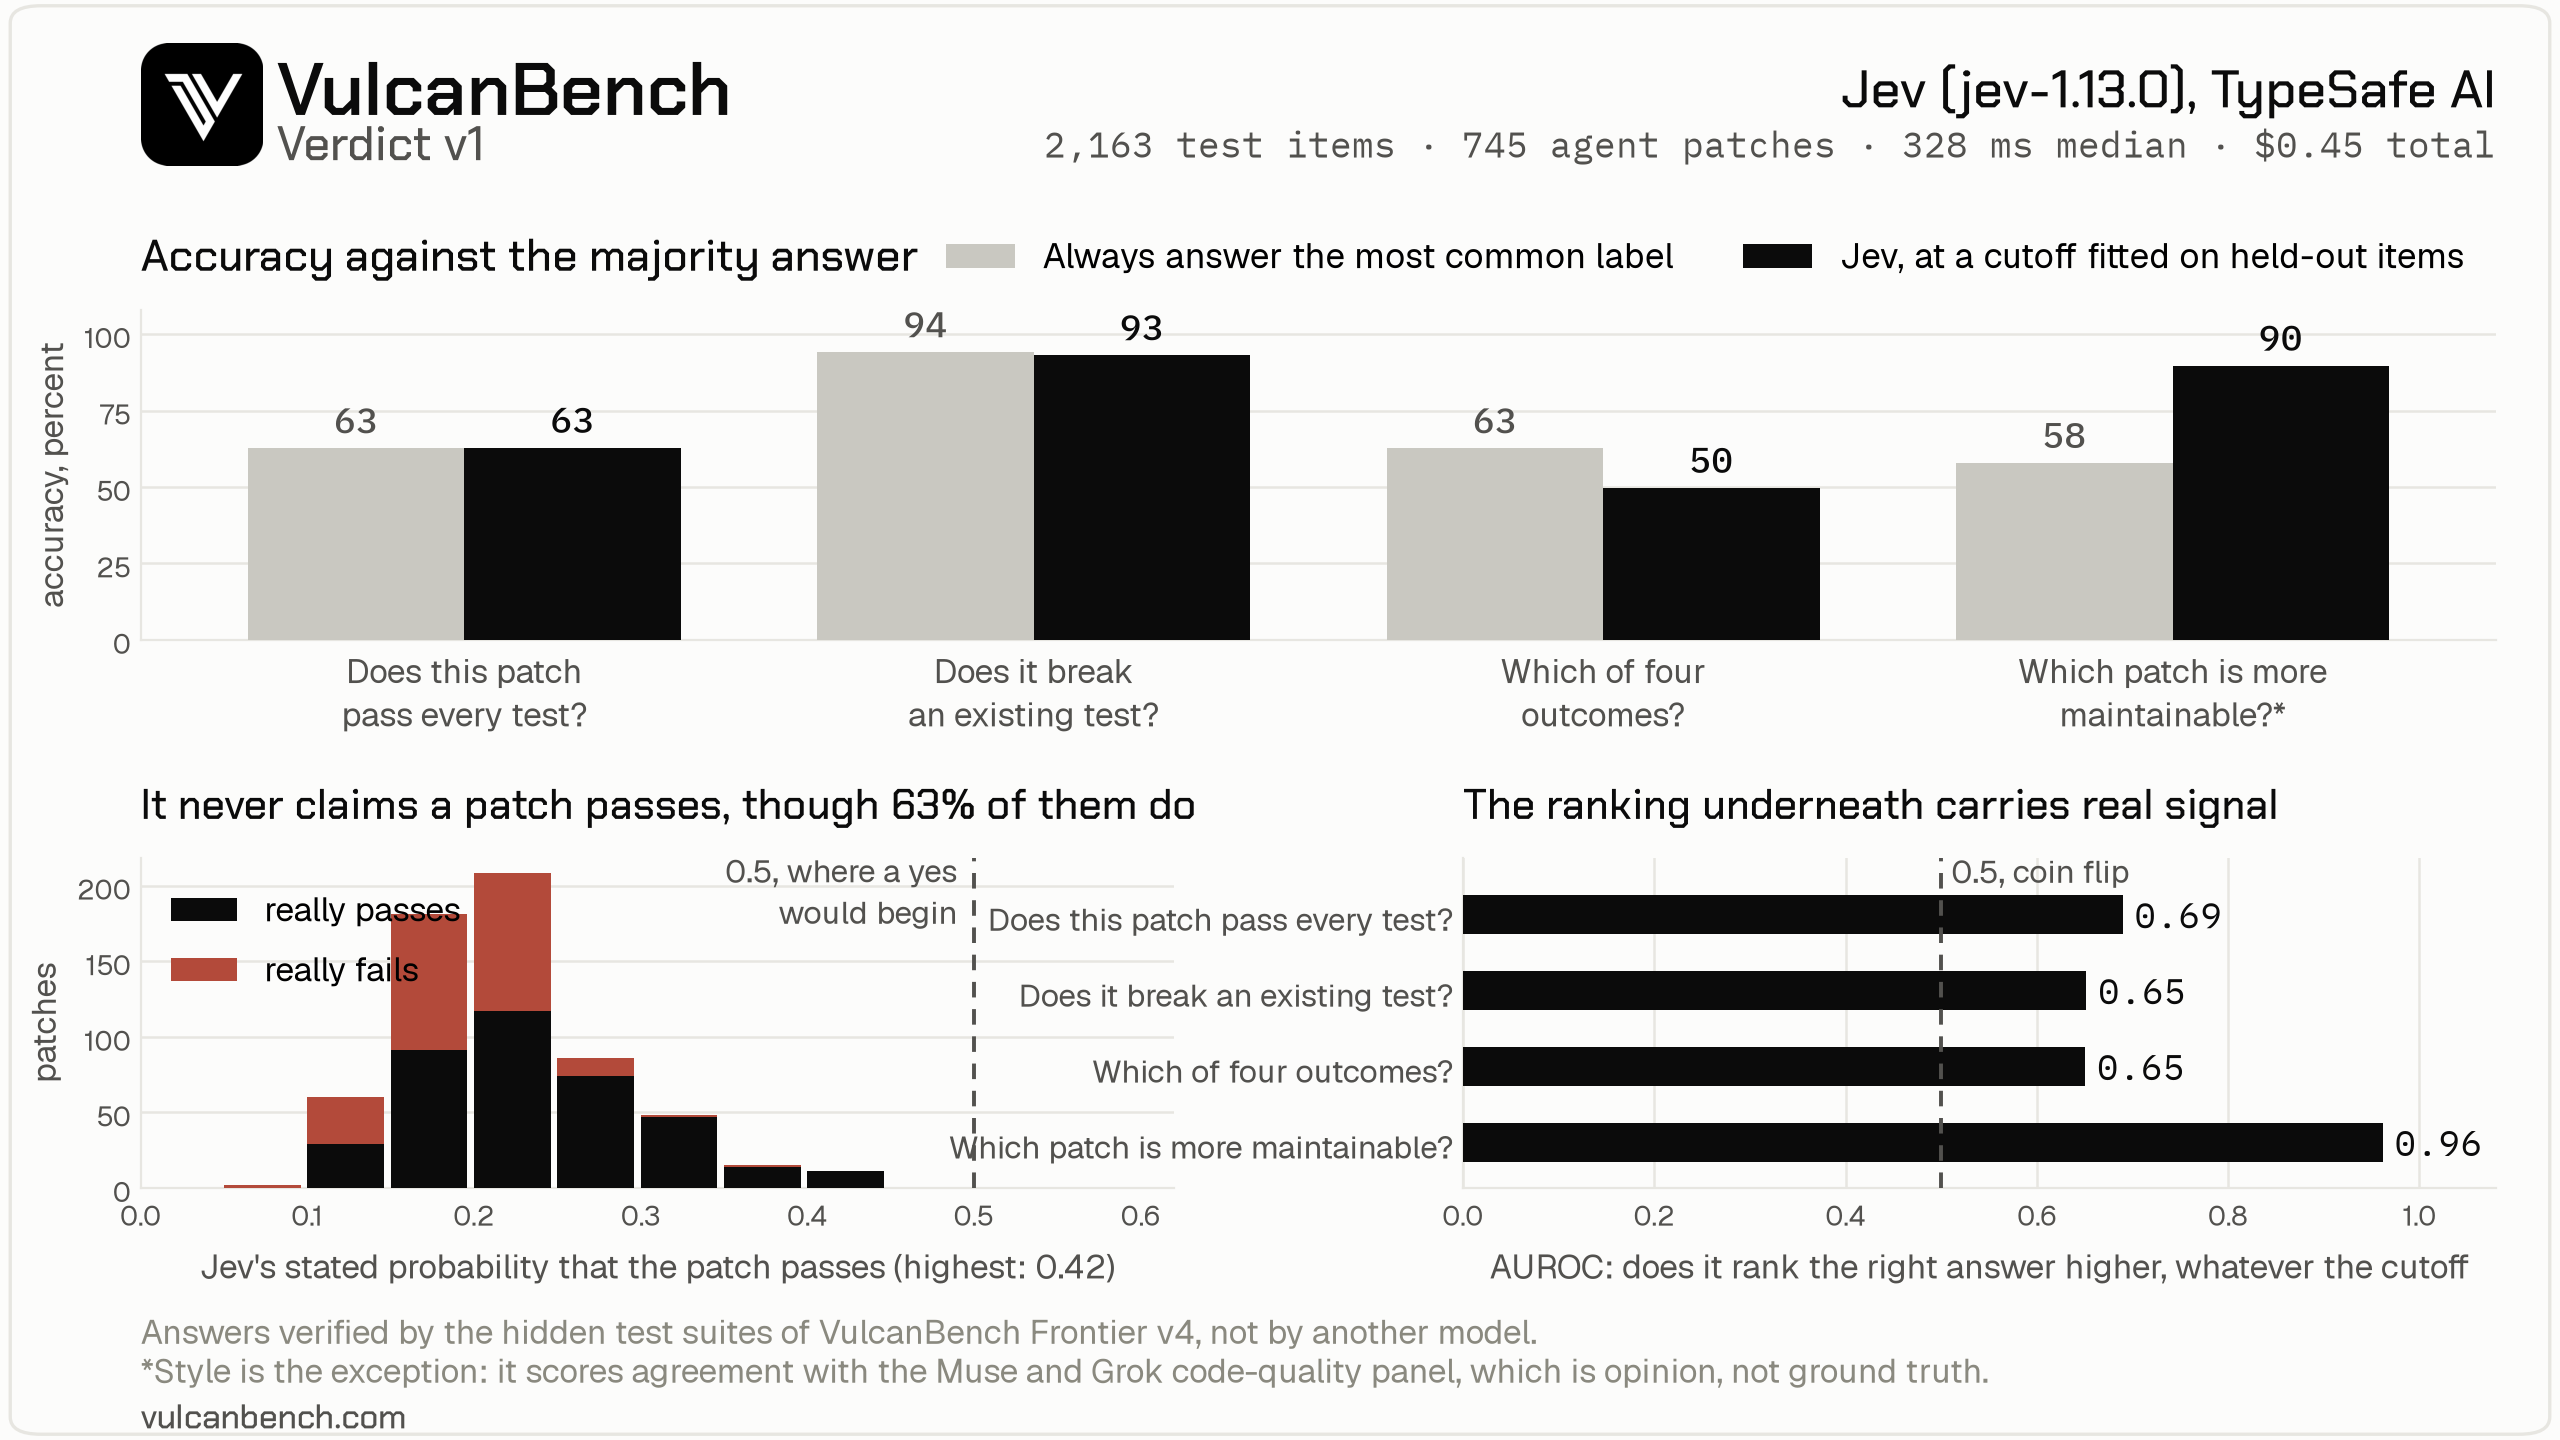
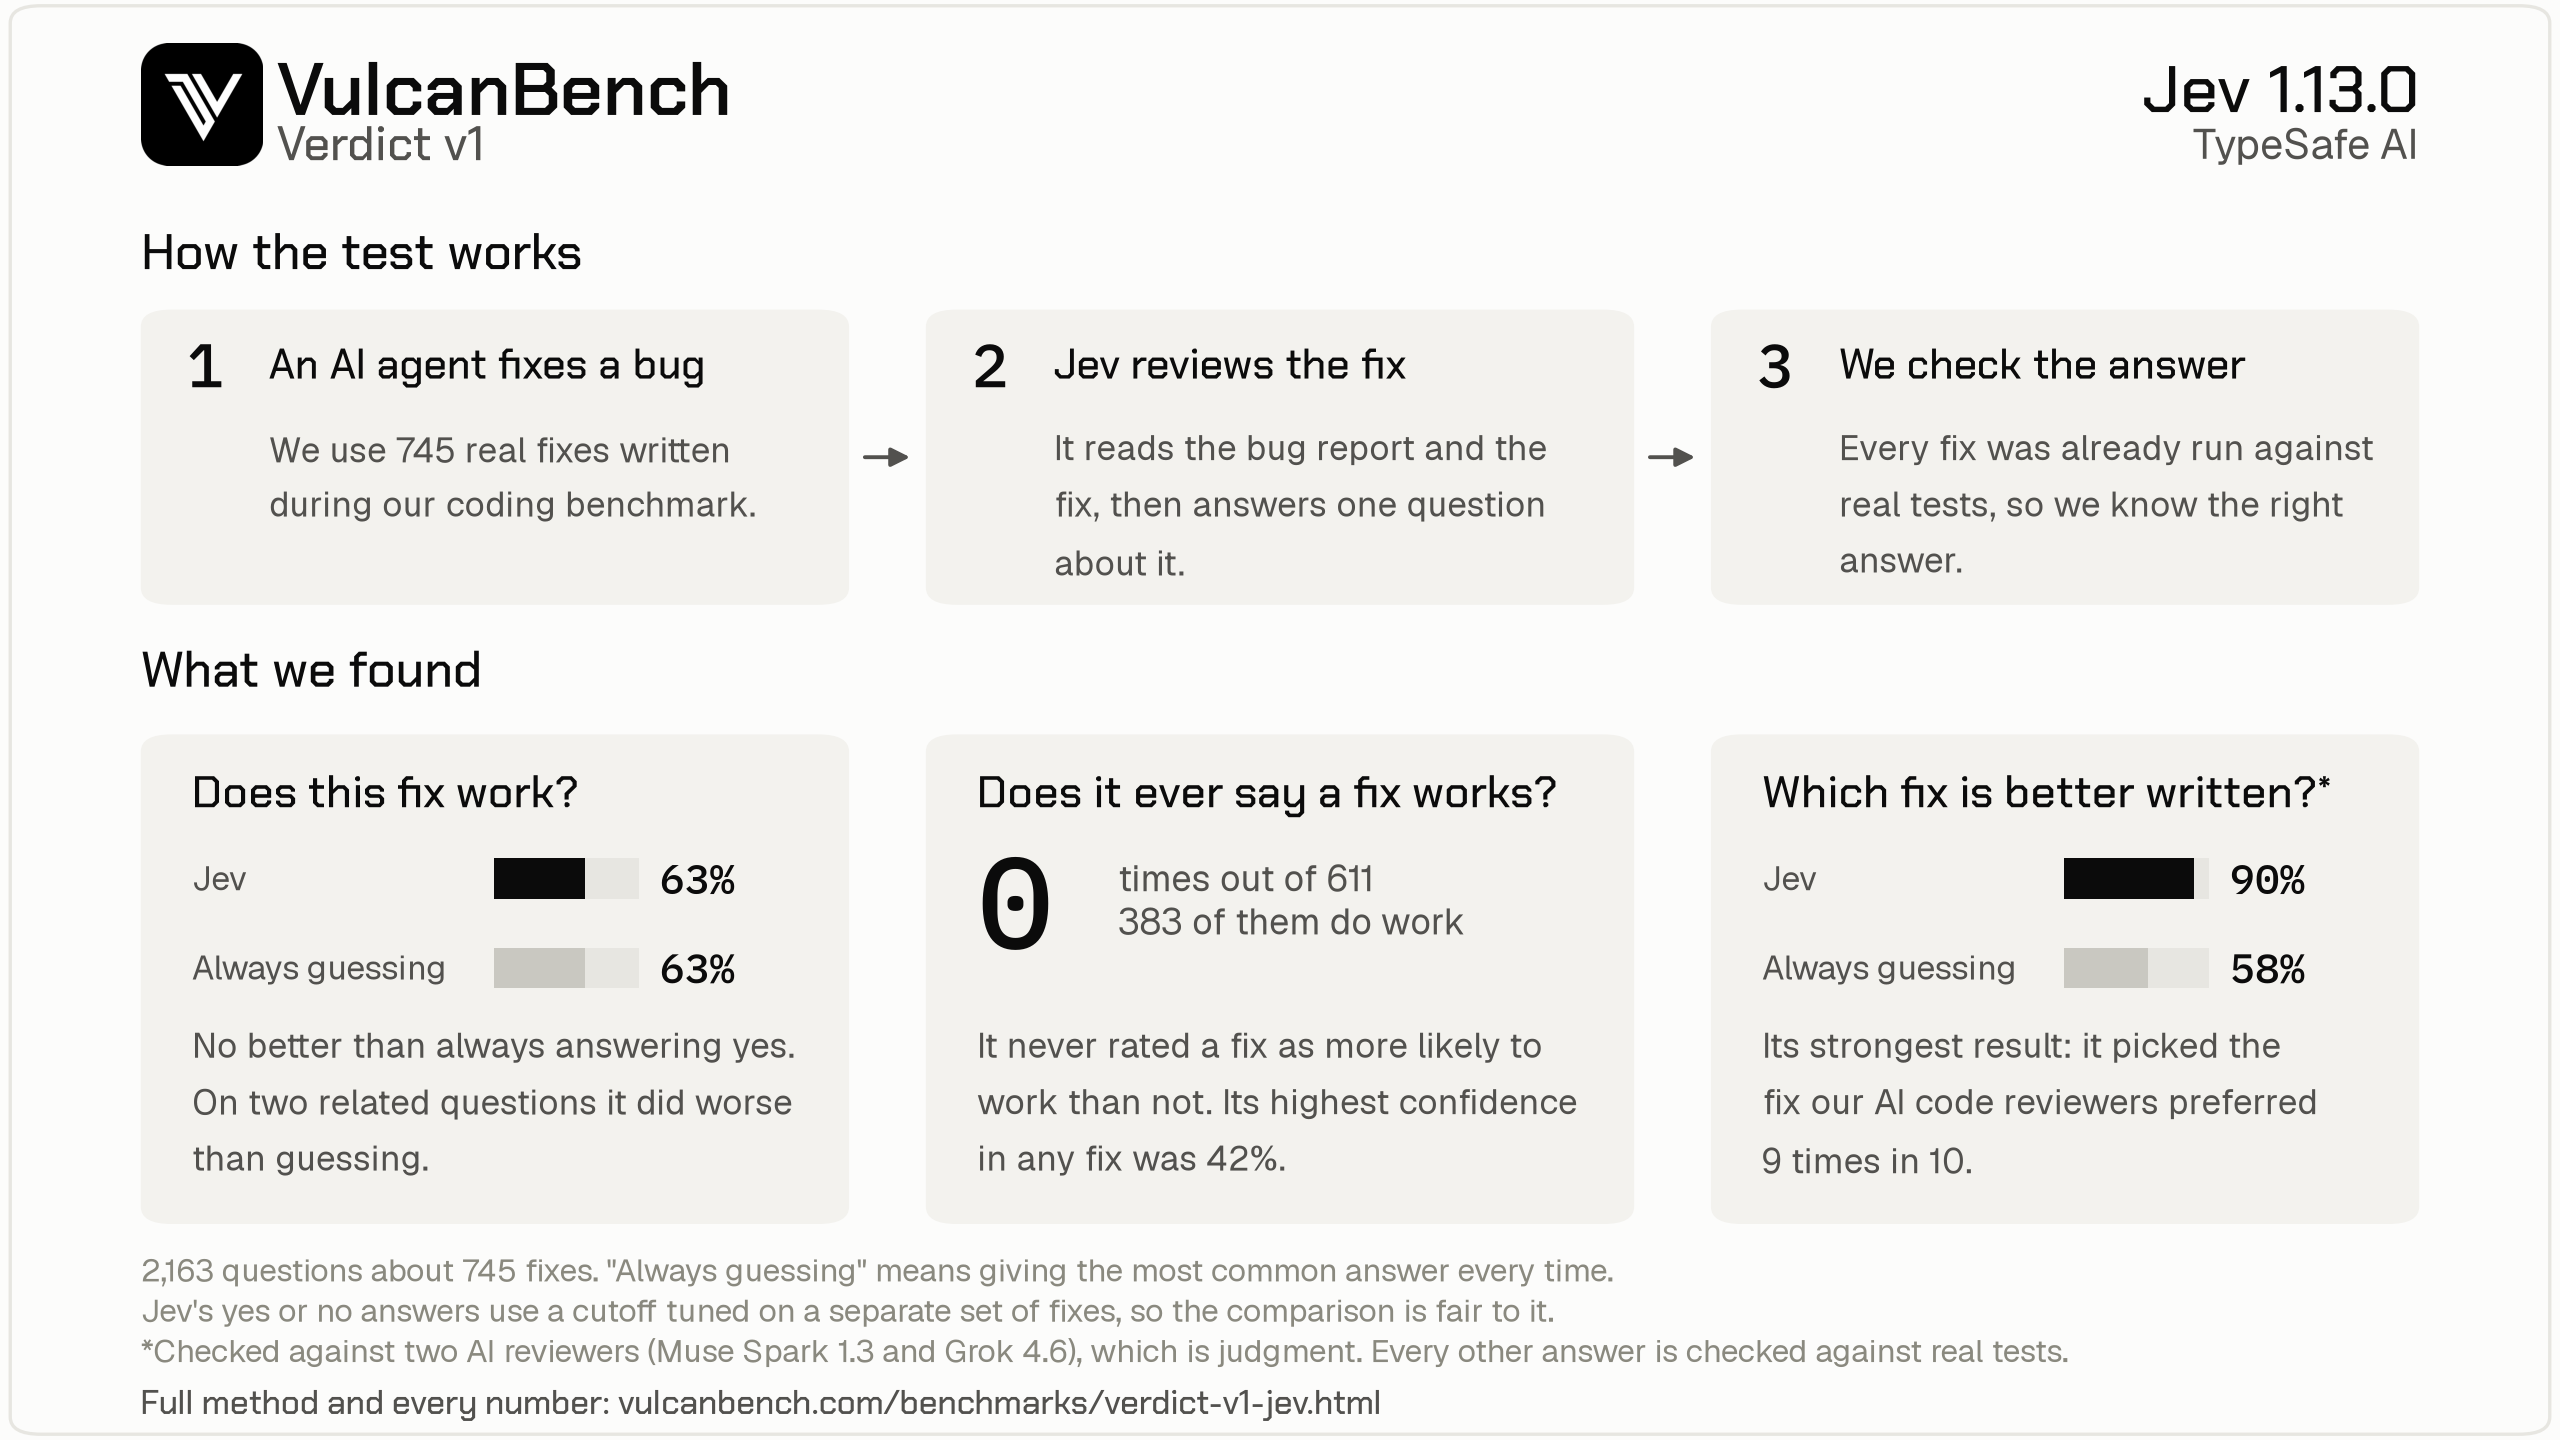
Publish the redesigned Verdict v1 Jev card
The card now explains how the test works in three steps and gives three
plain-language results against always guessing. Bumped to ?v=3 so no
cached copy of the old card is served, and rewrote the alt text and
caption to match.

diff --git a/benchmarks/verdict-v1-jev.html b/benchmarks/verdict-v1-jev.html
@@ -21,15 +21,15 @@
 <meta property="og:title" content="Jev 1.13.0 on VulcanBench Verdict v1 | VulcanBench">
 <meta property="og:description" content="Verdict v1: TypeSafe AI's Jev judged 745 real agent patches with answers verified by hidden tests. Its probabilities never cross 0.5, but the ranking underneath scores 0.69 AUROC, and it agrees with a code-quality panel on 89.7% of style pairs.">
 <meta property="og:url" content="https://vulcanbench.com/benchmarks/verdict-v1-jev.html">
-<meta property="og:image" content="https://vulcanbench.com/assets/cards/verdict-v1-jev.png?v=2">
+<meta property="og:image" content="https://vulcanbench.com/assets/cards/verdict-v1-jev.png?v=3">
 <meta property="og:image:width" content="2560">
 <meta property="og:image:height" content="1440">
-<meta property="og:image:alt" content="VulcanBench Verdict v1: Jev accuracy against the majority-answer floor on four question families, the distribution of the probabilities it produced, and its AUROC per family">
+<meta property="og:image:alt" content="VulcanBench Verdict v1: how the test works in three steps, and three results for Jev against always guessing">
 <meta name="twitter:card" content="summary_large_image">
 <meta name="twitter:title" content="Jev 1.13.0 on VulcanBench Verdict v1 | VulcanBench">
 <meta name="twitter:description" content="Verdict v1: TypeSafe AI's Jev judged 745 real agent patches with answers verified by hidden tests. Its probabilities never cross 0.5, but the ranking underneath scores 0.69 AUROC, and it agrees with a code-quality panel on 89.7% of style pairs.">
-<meta name="twitter:image" content="https://vulcanbench.com/assets/cards/verdict-v1-jev.png?v=2">
-<meta name="twitter:image:alt" content="VulcanBench Verdict v1: Jev accuracy against the majority-answer floor on four question families, the distribution of the probabilities it produced, and its AUROC per family">
+<meta name="twitter:image" content="https://vulcanbench.com/assets/cards/verdict-v1-jev.png?v=3">
+<meta name="twitter:image:alt" content="VulcanBench Verdict v1: how the test works in three steps, and three results for Jev against always guessing">
 <link rel="preconnect" href="https://fonts.googleapis.com">
 <link rel="preconnect" href="https://fonts.gstatic.com" crossorigin>
 <link href="https://fonts.googleapis.com/css2?family=Chakra+Petch:wght@400;500;600&family=IBM+Plex+Mono:ital,wght@0,400;0,500;1,400&display=swap" rel="stylesheet">
@@ -69,7 +69,7 @@
         <p><strong>Correction, September 23, 2026.</strong> The first version of this report scored yes or no questions at a 0.5 cutoff. Jev's probability that a patch passes never exceeds 0.42, so that cutoff sat outside its output range and no item could be answered "passes". Those figures were an artifact of the decision rule, not of the model. This version reports the ranking, which needs no cutoff, alongside accuracy at a cutoff fitted on the development split. Two claims did not survive and are withdrawn; see <a href="#correction">what changed</a>.</p>
       </header>
       <div class="report-resources" aria-label="Report and evidence downloads">
-        <a class="resource" href="/assets/cards/verdict-v1-jev.png?v=2" download><span class="resource-kind">Card</span><span class="resource-title">Results card</span><span class="resource-meta">PNG, accuracy, probabilities and ranking</span></a>
+        <a class="resource" href="/assets/cards/verdict-v1-jev.png?v=3" download><span class="resource-kind">Card</span><span class="resource-title">Results card</span><span class="resource-meta">PNG, how the test works and three results</span></a>
         <a class="resource" href="/assets/data/verdict-v1-jev/scores.csv" download><span class="resource-kind">Data</span><span class="resource-title">Scores by family</span><span class="resource-meta">CSV, Jev and the majority floor</span></a>
         <a class="resource" href="/assets/data/verdict-v1-jev/results.json"><span class="resource-kind">Data</span><span class="resource-title">Every published number</span><span class="resource-meta">JSON, metrics, confusion counts and the probe</span></a>
         <a class="resource" href="/assets/data/verdict-v1-jev/report.md"><span class="resource-kind">Report</span><span class="resource-title">Full technical report</span><span class="resource-meta">Markdown, findings, method and limits</span></a>
@@ -99,10 +99,10 @@
         <p>A fifth family, picking which file the fix belongs in, is kept only as a wiring probe. Jev answered 19 of 19 correctly, and then we checked the items: every issue names the answer file's stem in its own text, so the question is string matching. It supports no claim about ability. Items are split by task, so no task appears in both the development and test splits, and the test split is what is published here.</p>
       </section>
       <figure class="suite-card">
-        <a href="/assets/cards/verdict-v1-jev.png?v=2" aria-label="Open the Jev results card at full resolution">
-          <img src="/assets/cards/verdict-v1-jev.png?v=2" width="2560" height="1440" fetchpriority="high" alt="VulcanBench Verdict v1 results for Jev. At a cutoff fitted on held-out items, Jev matches the majority-answer floor on whether a patch passes, 63 against 63, and on whether it breaks a test, 93 against 94; it scores 50 against 63 on the four-way outcome and 90 against 58 on which patch is more maintainable. A second panel shows every stated probability falling between 0.09 and 0.42, well short of the 0.5 mark where a yes would begin. A third panel shows AUROC of 0.69, 0.65, 0.65 and 0.96 across the four questions, all above the 0.5 coin-flip line. Exact values are in the tables on this page.">
+        <a href="/assets/cards/verdict-v1-jev.png?v=3" aria-label="Open the Jev results card at full resolution">
+          <img src="/assets/cards/verdict-v1-jev.png?v=3" width="2560" height="1440" fetchpriority="high" alt="VulcanBench Verdict v1 card for Jev. How the test works: an AI agent fixes a bug, Jev reads the bug report and the fix and answers one question about it, and the answer is checked against the fix's real test results. What we found: on whether a fix works, Jev scores 63 percent, the same as always guessing yes; it never once rated a fix as more likely to work than not, though 383 of 611 do work, and its highest confidence was 42 percent; on which of two fixes is better written, it agrees with the AI code reviewers 90 percent of the time against 58 percent for guessing. Exact values are in the tables on this page.">
         </a>
-        <figcaption>Accuracy bars use a cutoff fitted on the development split, because Jev's own probabilities never cross 0.5. The style family, marked with an asterisk, scores agreement with a code-quality judge panel, not ground truth. <a href="/assets/cards/verdict-v1-jev.png?v=2">Open full-size card</a>.</figcaption>
+        <figcaption>The yes or no results use a cutoff tuned on a separate set of fixes, so the comparison with guessing is fair to Jev. The style result, marked with an asterisk, is checked against AI reviewers rather than tests. <a href="/assets/cards/verdict-v1-jev.png?v=3">Open full-size card</a>.</figcaption>
       </figure>
 
       <section class="report-section" id="results" aria-labelledby="results-heading">

diff --git a/benchmarks.html b/benchmarks.html
@@ -159,7 +159,7 @@
         <p>Its stated probability that a patch passes never rises above 0.42, on a population where 63% of them pass, which is a large calibration failure. The ranking underneath is sounder: AUROC 0.69 on that question, and at a cutoff fitted on held-out items its accuracy draws level with the majority answer rather than beating it. On which of two patches a code-quality panel preferred, it agrees 89.7% of the time at AUROC 0.962, for 328 ms and $0.15 per 1,000 decisions. Corrected on September 23 after the first version scored these questions at a cutoff the model never crosses.</p>
         <div class="suite-downloads"><a href="benchmarks/verdict-v1-jev.html">Read the study</a><a href="assets/data/verdict-v1-jev/report.md">Full report</a><a href="assets/data/verdict-v1-jev/scores.csv">Scores CSV</a><a href="https://github.com/morganlinton/VulcanBench/tree/main/harness/verdict">Suite code</a></div>
       </div>
-      <a href="benchmarks/verdict-v1-jev.html" aria-label="Read the Jev report on Verdict v1"><img src="assets/cards/verdict-v1-jev.png?v=2" width="2560" height="1440" loading="lazy" alt="Preview of the Jev results card. Open the study for readable charts and tables."></a>
+      <a href="benchmarks/verdict-v1-jev.html" aria-label="Read the Jev report on Verdict v1"><img src="assets/cards/verdict-v1-jev.png?v=3" width="2560" height="1440" loading="lazy" alt="Preview of the Jev results card. Open the study for readable charts and tables."></a>
     </article>
   </section>
 
